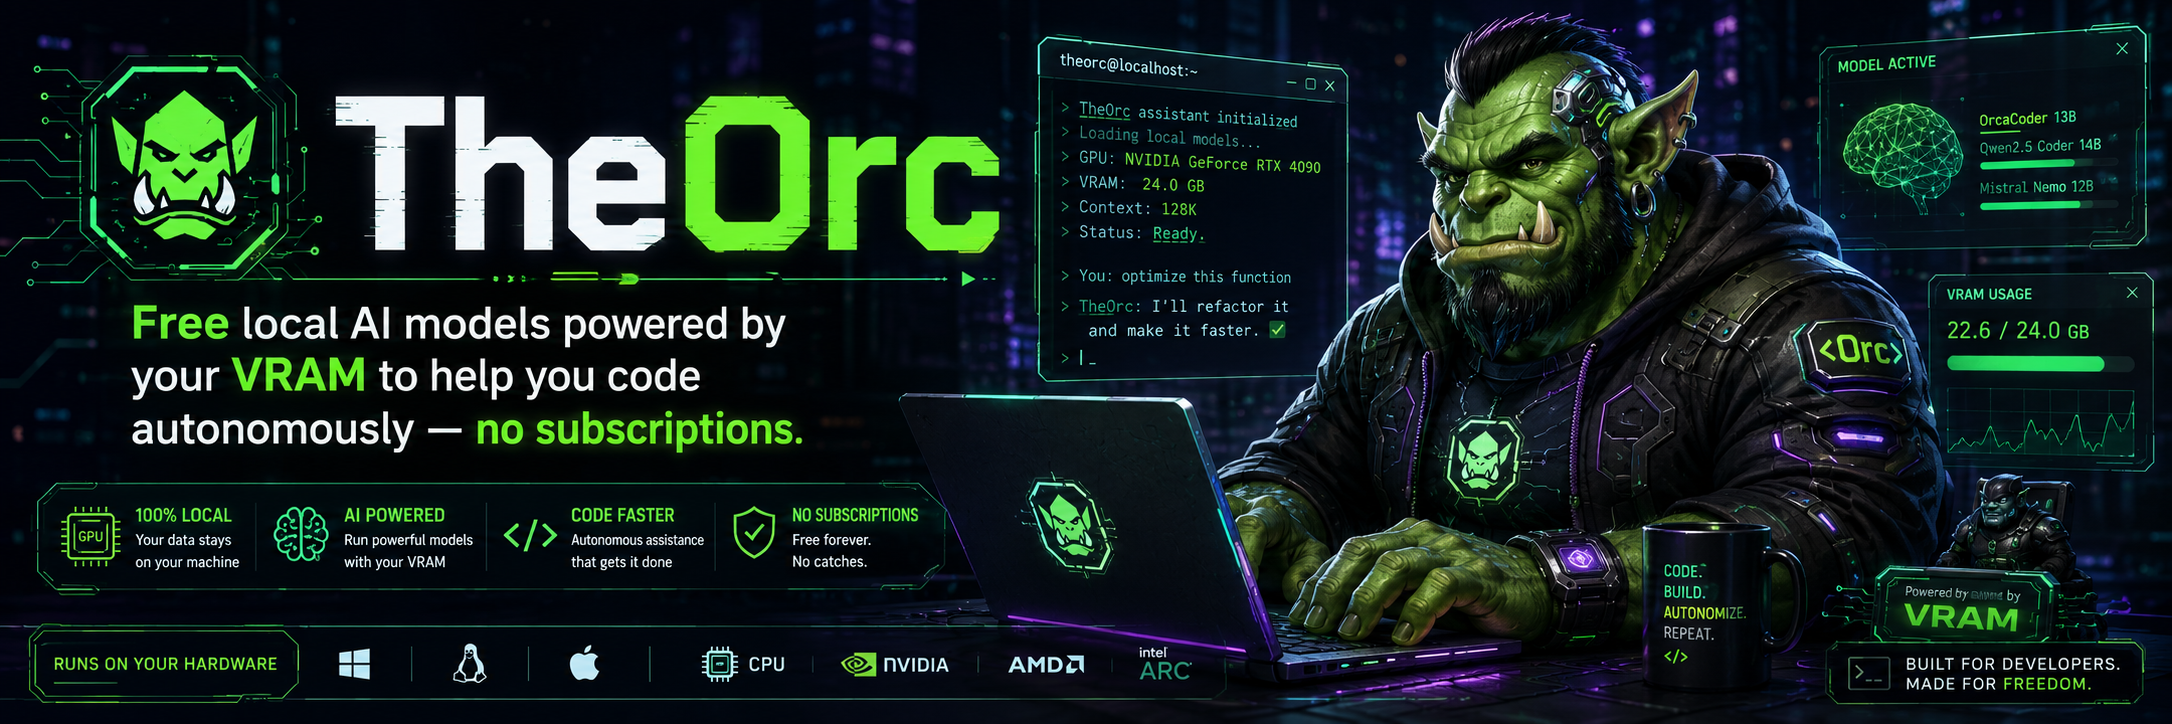
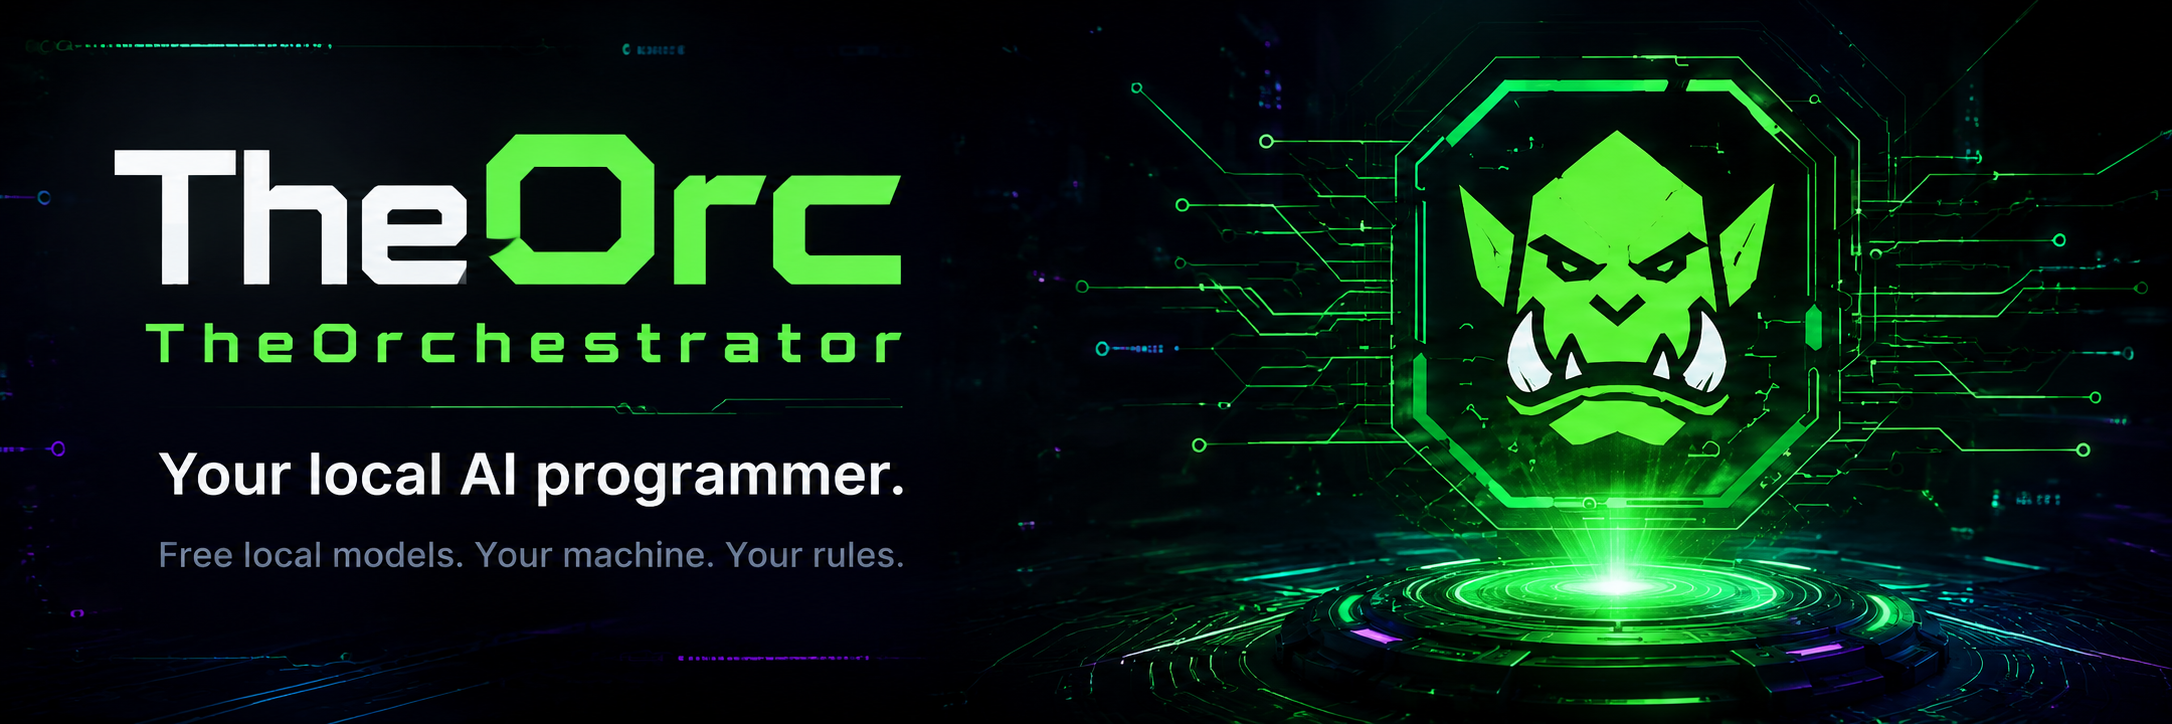
chore: add release branding art + fix repo URL references
- Assets/release.png: new orc mascot art for GitHub release page banner
- Assets/banner.png: updated banner image
- Assets/badge1.png: new badge artwork
- release.yml: embed release.png in release notes; add formatted system
  requirements table and Ko-fi link; fix Source URL to hardcoreerik/TheOrc
- README.md: fix Platform badge URL from The-Orchestrator to TheOrc

diff --git a/README.md b/README.md
@@ -4,7 +4,7 @@
 
 <br/>
 
-[![Platform](https://img.shields.io/badge/platform-Windows-blue?style=for-the-badge&logo=windows)](https://github.com/hardcoreerik/The-Orchestrator/releases)
+[![Platform](https://img.shields.io/badge/platform-Windows-blue?style=for-the-badge&logo=windows)](https://github.com/hardcoreerik/TheOrc/releases)
 [![.NET](https://img.shields.io/badge/.NET-10.0-purple?style=for-the-badge&logo=dotnet)](https://dotnet.microsoft.com/download/dotnet/10.0)
 [![License](https://img.shields.io/badge/license-MIT-brightgreen?style=for-the-badge)](LICENSE)
 [![Backend](https://img.shields.io/badge/inference-llama.cpp-orange?style=for-the-badge)](https://github.com/ggml-org/llama.cpp)